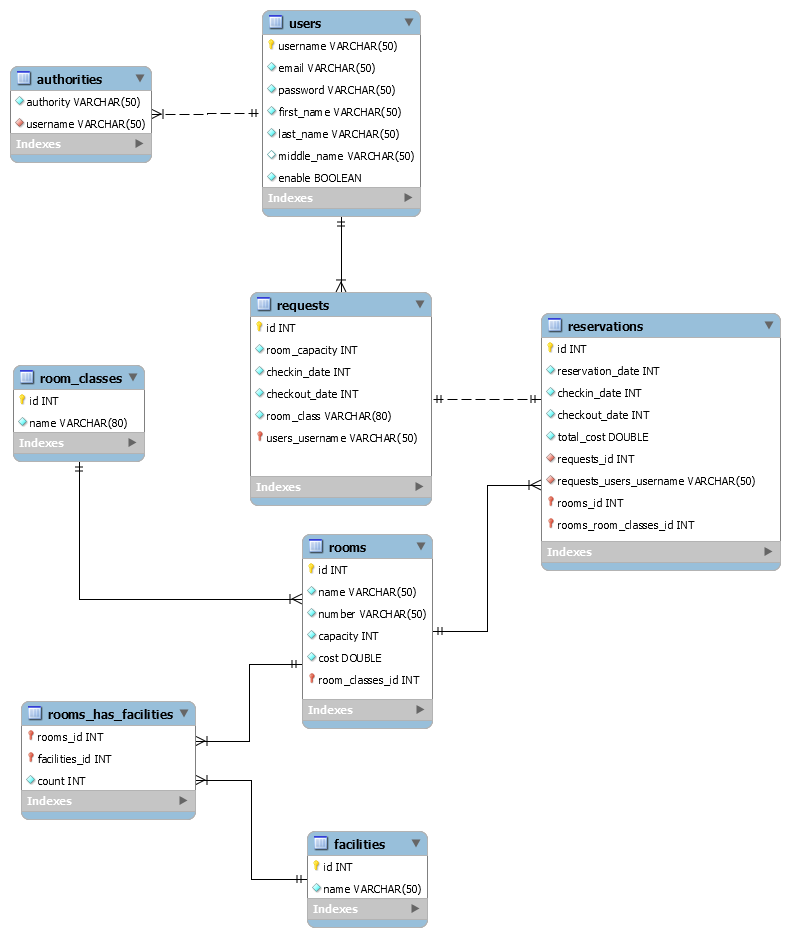
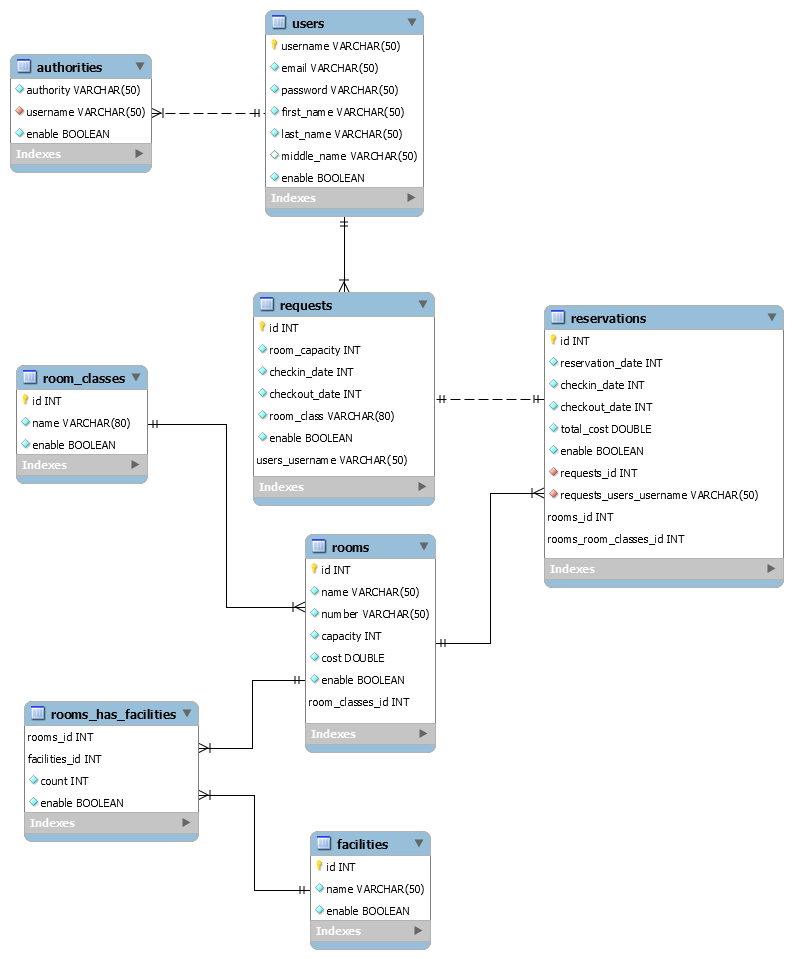
dao + service

diff --git a/src/main/java/by/htp/kirova/task2/java/entity/Authority.java b/src/main/java/by/htp/kirova/task2/java/entity/Authority.java
@@ -27,13 +27,19 @@ public class Authority implements Serializable {
      */
     private String username;
 
+    /**
+     * Access to the Authority: available or deleted.
+     */
+    private boolean enable;
+
 
     public Authority() {
     }
 
-    public Authority(String authority, String username) {
+    public Authority(String authority, String username, boolean enable) {
         this.authority = authority;
         this.username = username;
+        this.enable = enable;
     }
 
     /**
@@ -55,6 +61,15 @@ public class Authority implements Serializable {
     }
 
     /**
+     * Returns access to Authority
+     *
+     * @return access to Authority {@code true} if access granted, {@code false} otherwise.
+     */
+    public boolean isEnable() {
+        return enable;
+    }
+
+    /**
      * Sets authority name.
      *
      * @param authority authority name.
@@ -72,6 +87,15 @@ public class Authority implements Serializable {
         this.username = username;
     }
 
+    /**
+     * Set access to Authority
+     *
+     * @param enable boolean access state.
+     */
+    public void setEnable(boolean enable) {
+        this.enable = enable;
+    }
+
     @Override
     public boolean equals(Object o) {
         if (this == o) {
@@ -84,17 +108,21 @@ public class Authority implements Serializable {
             return false;
         }
 
-        Authority that = (Authority) o;
+        Authority authority = (Authority) o;
 
-        return Objects.equals(authority, that.authority) &&
-                Objects.equals(username, that.username);
+        return enable == authority.enable &&
+                Objects.equals(authority, authority.authority) &&
+                Objects.equals(username, authority.username);
     }
 
     @Override
     public int hashCode() {
         int result = 1;
+
         result = result * 31 + (authority == null ? 0 : authority.hashCode()) * result;
         result = result * 31 + (username == null ? 0 : username.hashCode()) * result;
+        result = result * 31 + (enable ? 0 : 1) * result;
+
         return result;
     }
 
@@ -103,6 +131,7 @@ public class Authority implements Serializable {
         return "Authority{" +
                 "authority='" + authority + '\'' +
                 ", username='" + username + '\'' +
+                ", enable=" + enable +
                 '}';
     }
 }

diff --git a/src/main/java/by/htp/kirova/task2/java/entity/Request.java b/src/main/java/by/htp/kirova/task2/java/entity/Request.java
@@ -44,6 +44,11 @@ public class Request implements Serializable {
     private String room_class;
 
     /**
+     * Access to the Request: available or deleted.
+     */
+    private boolean enable;
+
+    /**
      * The unique identification name of user.
      */
     private String users_username;
@@ -52,13 +57,13 @@ public class Request implements Serializable {
     public Request() {
     }
 
-    public Request(long id, int room_capacity, long checkin_date, long checkout_date, String room_class,
-                   String users_username) {
+    public Request(long id, int room_capacity, long checkin_date, long checkout_date, String room_class, boolean enable, String users_username) {
         this.id = id;
         this.room_capacity = room_capacity;
         this.checkin_date = checkin_date;
         this.checkout_date = checkout_date;
         this.room_class = room_class;
+        this.enable = enable;
         this.users_username = users_username;
     }
 
@@ -105,6 +110,15 @@ public class Request implements Serializable {
      */
     public String getRoom_class() {
         return room_class;
+    }
+
+    /**
+     * Returns access to Request
+     *
+     * @return access to Request {@code true} if access granted, {@code false} otherwise.
+     */
+    public boolean isEnable() {
+        return enable;
     }
 
     /**
@@ -162,6 +176,15 @@ public class Request implements Serializable {
     }
 
     /**
+     * Set access to Request
+     *
+     * @param enable boolean access state.
+     */
+    public void setEnable(boolean enable) {
+        this.enable = enable;
+    }
+
+    /**
      * Sets user's unique identification name.
      *
      * @param users_username user's unique identification name.
@@ -188,6 +211,7 @@ public class Request implements Serializable {
                 room_capacity == request.room_capacity &&
                 checkin_date == request.checkin_date &&
                 checkout_date == request.checkout_date &&
+                enable == request.enable &&
                 Objects.equals(room_class, request.room_class) &&
                 Objects.equals(users_username, request.users_username);
     }

diff --git a/src/main/java/by/htp/kirova/task2/java/entity/Facility.java b/src/main/java/by/htp/kirova/task2/java/entity/Facility.java
@@ -26,12 +26,18 @@ public class Facility implements Serializable {
      */
     private String name;
 
+    /**
+     * Access to the Facility: available or deleted.
+     */
+    private boolean enable;
+
     public Facility() {
     }
 
-    public Facility(long id, String name) {
+    public Facility(long id, String name, boolean enable) {
         this.id = id;
         this.name = name;
+        this.enable = enable;
     }
 
     /**
@@ -53,6 +59,15 @@ public class Facility implements Serializable {
     }
 
     /**
+     * Returns access to Facility
+     *
+     * @return access to Facility {@code true} if access granted, {@code false} otherwise.
+     */
+    public boolean isEnable() {
+        return enable;
+    }
+
+    /**
      * Sets facility's unique identification number.
      *
      * @param id facility unique identification number.
@@ -70,6 +85,15 @@ public class Facility implements Serializable {
         this.name = name;
     }
 
+    /**
+     * Set access to Facility
+     *
+     * @param enable boolean access state.
+     */
+    public void setEnable(boolean enable) {
+        this.enable = enable;
+    }
+
     @Override
     public boolean equals(Object o) {
         if (this == o) {
@@ -81,8 +105,11 @@ public class Facility implements Serializable {
         if (this.getClass() != o.getClass()) {
             return false;
         }
+
         Facility facility = (Facility) o;
+
         return id == facility.id &&
+                enable == facility.enable &&
                 Objects.equals(name, facility.name);
     }
 
@@ -91,6 +118,7 @@ public class Facility implements Serializable {
         int result = 1;
         result = (int) (result * 31 + result * id);
         result = result * 31 + (name == null ? 0 : name.hashCode()) * result;
+        result = result * 31 + (enable ? 0 : 1) * result;
         return result;
     }
 
@@ -99,6 +127,7 @@ public class Facility implements Serializable {
         return "Facility{" +
                 "id=" + id +
                 ", name='" + name + '\'' +
+                ", enable=" + enable +
                 '}';
     }
 }

diff --git a/src/main/java/by/htp/kirova/task2/java/entity/User.java b/src/main/java/by/htp/kirova/task2/java/entity/User.java
@@ -48,7 +48,7 @@ import java.util.Objects;
     private String middle_name;
 
     /**
-     * Access to the User.
+     * Access to the User: available or deleted.
      */
     private boolean enable;
 
@@ -184,8 +184,6 @@ import java.util.Objects;
         this.middle_name = middle_name;
     }
 
-
-
     /**
      * Set access to User
      *
@@ -207,6 +205,7 @@ import java.util.Objects;
         if (this.getClass() != o.getClass()) {
             return false;
         }
+
         User user = (User) o;
 
         return enable == user.enable &&

diff --git a/src/main/java/by/htp/kirova/task2/java/service/GenericService.java b/src/main/java/by/htp/kirova/task2/java/service/GenericService.java
@@ -39,6 +39,8 @@ public interface GenericService<T> {
 
     /**
      * Deletes specific object based on equality with the parameter.
+     * For artifical deletion in BD, it is recommended to use the update(T entity)
+     * method with changing the enable parameter from {@code true} to {@code false}.
      *
      * @param entity parameter which specifies concrete object.
      * @return boolean {@code true} in case of success and {@code false} otherwise.

diff --git a/src/main/java/by/htp/kirova/task2/java/dao/GenericDAO.java b/src/main/java/by/htp/kirova/task2/java/dao/GenericDAO.java
@@ -42,6 +42,8 @@ public interface GenericDAO<T> {
 
     /**
      * Deletes specific object based on equality with the parameter.
+     * For artifical deletion in BD, it is recommended to use the update(T entity)
+     * method with changing the enable parameter from {@code true} to {@code false}.
      *
      * @param entity parameter which specifies concrete object.
      * @return boolean {@code true} in case of success and {@code false} otherwise.
